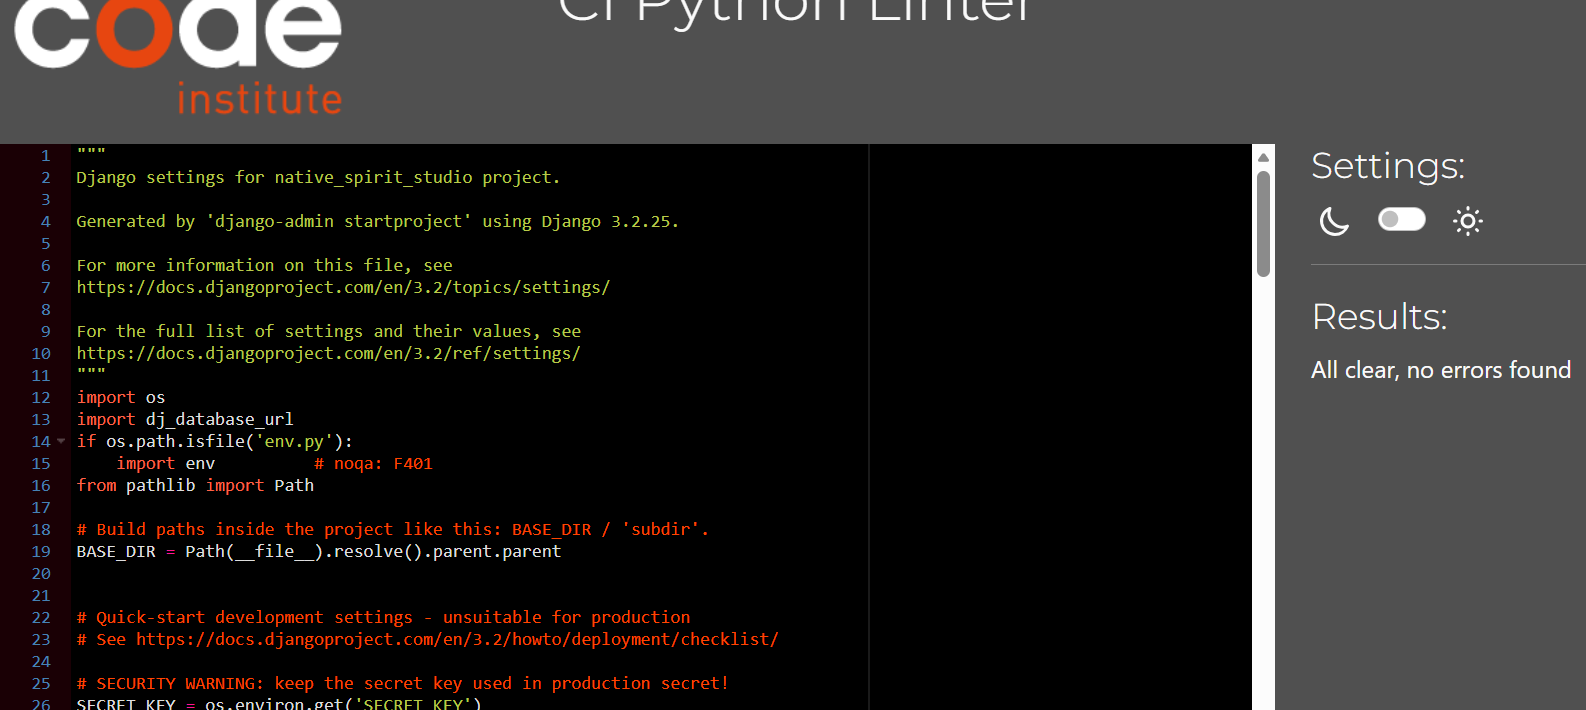
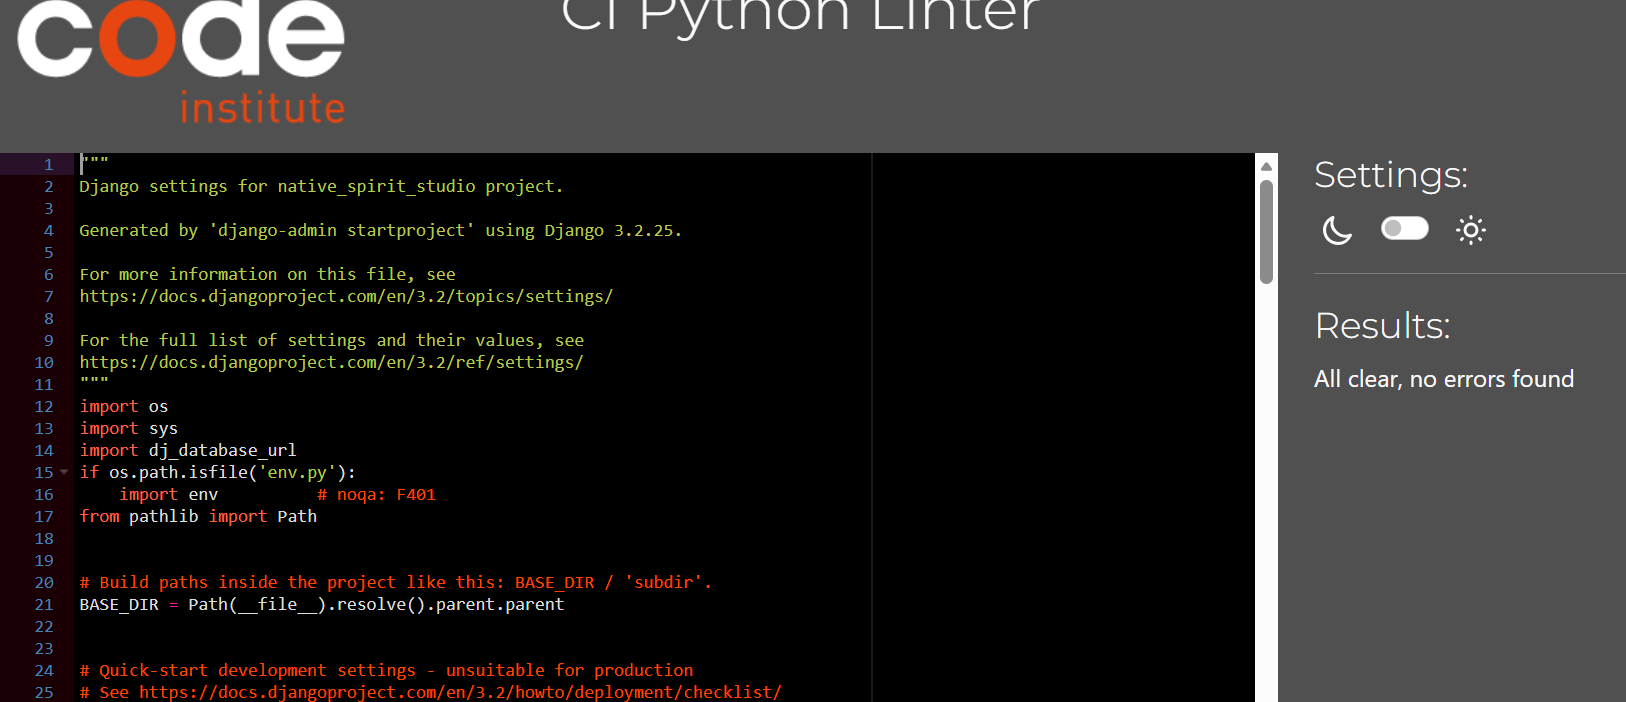
Add defensive programming screenshots

diff --git a/journal/templates/journal/add_reflection.html b/journal/templates/journal/add_reflection.html
@@ -53,14 +53,15 @@
 
                 {{ form|crispy }}
             </fieldset>
-        </form>
-                <button type="submit" class="btn btn-info rounded-0 mt-3">
+             <button type="submit" class="btn btn-info rounded-0 mt-3">
                     {% if reflection %}
                         Update Reflection
                     {% else %}
                         Save Reflection
                     {% endif %}
                 </button>
+        </form>
+               
             </div>
         </div>
     </div>

diff --git a/TESTING.md b/TESTING.md
@@ -148,7 +148,7 @@ I have used the recommended [PEP8 CI Python Linter](https://pep8ci.herokuapp.com
 | journal | [admin.py](https://github.com/Rubina1978/native-spirit-studio/blob/main/journal/admin.py) | [PEP8 CI Link](https://pep8ci.herokuapp.com/https://raw.githubusercontent.com/Rubina1978/native-spirit-studio/refs/heads/main/journal/admin.py) | ![screenshot](documentation/linter/journal-admin.png) |  |
 | journal | [forms.py](https://github.com/Rubina1978/native-spirit-studio/blob/main/journal/forms.py) | [PEP8 CI Link](https://pep8ci.herokuapp.com/https://raw.githubusercontent.com/Rubina1978/native-spirit-studio/refs/heads/main/journal/forms.py) | ![screenshot](documentation/linter/journal-forms.png) |  |
 | journal | [models.py](https://github.com/Rubina1978/native-spirit-studio/blob/main/journal/models.py) | [PEP8 CI Link](https://pep8ci.herokuapp.com/https://raw.githubusercontent.com/Rubina1978/native-spirit-studio/refs/heads/main/journal/models.py) | ![screenshot](documentation/linter/journal-models.png) |  |
-| journal | [tests.py](https://github.com/Rubina1978/native-spirit-studio/blob/main/journal/tests.py) | [PEP8 CI Link](https://pep8ci.herokuapp.com/https://raw.githubusercontent.com/Rubina1978/native-spirit-studio/main/journal/tests.py) | ![screenshot](documentation/validation/py-journal-tests.png) |  |
+| journal | [tests.py](https://github.com/Rubina1978/native-spirit-studio/blob/main/journal/tests.py) | [PEP8 CI Link](https://raw.githubusercontent.com/Rubina1978/native-spirit-studio/refs/heads/main/journal/tests.py) | ![screenshot](documentation/linter/journal-test.png) |  |
 | journal | [urls.py](https://github.com/Rubina1978/native-spirit-studio/blob/main/journal/urls.py) | [PEP8 CI Link](https://pep8ci.herokuapp.com/https://raw.githubusercontent.com/Rubina1978/native-spirit-studio/main/journal/urls.py) | ![screenshot](documentation/linter/journal-urls.png) |  |
 | journal | [views.py](https://github.com/Rubina1978/native-spirit-studio/blob/main/journal/views.py) | [PEP8 CI Link](https://pep8ci.herokuapp.com/https://raw.githubusercontent.com/Rubina1978/native-spirit-studio/refs/heads/main/journal/views.py) | ![screenshot](documentation/linter/journal-views.png) |  |
 | native_spirit_studio  | [manage.py](https://github.com/Rubina1978/native-spirit-studio/blob/main/manage.py) | [PEP8 CI Link](https://pep8ci.herokuapp.com/https://raw.githubusercontent.com/Rubina1978/native-spirit-studio/refs/heads/main/manage.py) | ![screenshot](documentation/linter/n-s-s-manage.py.png) |  |
@@ -254,7 +254,7 @@ I've tested my deployed project using the Lighthouse Audit tool to check for any
 | Add Product | ![screenshot](documentation/lighthouse/add-product-mobile.png) | ![screenshot](documentation/lighthouse/add-product-desktop.png) |
 | Edit Product | ![screenshot](documentation/lighthouse/edit-product-mobile.png) | ![screenshot](documentation/lighthouse/edit-product-desktop.png) |
 | Journal | ![screenshot](documentation/lighthouse/journal-mobile.png) | ![screenshot](documentation/lighthouse/journal-desktop.png) |
-| Add reflection | ![screenshot](documentation/lighthouse/add-reflection-mobile.png) | ![screenshot](documentation\lighthouse\add-reflection-desktop.png) |
+| Add reflection | ![screenshot](documentation/lighthouse/add-reflection-mobile.png) | ![screenshot](documentation/lighthouse/add-reflection-desktop.png) |
 | 404 | ![screenshot](documentation/lighthouse/page-404-mobile.png) | ![screenshot](documentation/lighthouse/pAGE-404-desktop.png) |
 
 ## Defensive Programming
@@ -300,24 +300,24 @@ Defensive programming was manually tested with the below user acceptance testing
 
 | Page | Expectation | Test | Result | Screenshot |
 | --- | --- | --- | --- | --- |
-| Products | Feature is expected to allow users to browse products without registration. | Opened product pages as a guest user. | Products were fully accessible without requiring registration. | ![screenshot](documentation/defensive/products.png) |
-| | Feature is expected to sort products by price and name. | Tested sorting options for price (low-to-high/high-to-low) and name (alphabetical). | Sorting worked correctly for all options. | ![screenshot](documentation/defensive/sorting.png) |
-| | Feature is expected to filter products by category. | Applied category filters while browsing products. | Filters worked as expected, displaying only relevant products. | ![screenshot](documentation/defensive/filtering.png) |
-| | Feature is expected to show detailed product information. | Clicked on individual products to view details. | Product details (description, price, image) were displayed correctly. | ![screenshot](documentation/defensive/product-details.png) |
-| Shopping Cart | Feature is expected to allow customers to add items to the cart with quantity controls. | Added products to the cart and adjusted quantities. | Items were added successfully, and quantities updated as expected. | ![screenshot](documentation/defensive/add-to-cart.png) |
-| | Feature is expected to allow customers to view and manage their cart. | Opened the cart page and edited cart contents. | Cart contents were displayed, updated, and removed correctly. | ![screenshot](documentation/defensive/manage-cart.png) |
-| Checkout | Feature is expected to display cart items, grand total, and input fields for checkout. | Proceeded to checkout with items in the cart. | Checkout page displayed cart items, total, and input fields as expected. | ![screenshot](documentation/defensive/checkout.png) |
-| | Feature is expected to allow secure payment via Stripe. | Entered valid card details using Stripe at checkout. | Payment was processed securely, and an order confirmation page was displayed. | ![screenshot](documentation/defensive/stripe-payment.png) |
-| | Feature is expected to send a confirmation email after purchase. | Completed a purchase and checked email inbox. | Confirmation email was received with order details. | ![screenshot](documentation/defensive/confirmation-email.png) |
-| | Feature is expected to display an order confirmation page with an order number. | Completed a purchase. | Order confirmation page displayed successfully with an order number. | ![screenshot](documentation/defensive/order-confirmation.png) |
-| Account Management | Feature is expected to allow returning customers to log in and view past orders. | Logged in as a returning customer and accessed order history. | Past orders were displayed correctly in the account section. | ![screenshot](documentation/defensive/order-history.png) |
-| | Feature is expected to remember the shipping address for returning customers. | Completed multiple checkouts as a returning customer. | Shipping address was pre-filled on subsequent purchases. | ![screenshot](documentation/defensive/saved-address.png) |
-| Admin Features | Feature is expected to allow the site owner to create new products. | Created new products with valid data (name, price, description, image, category). | Products were added successfully and displayed on the site. | ![screenshot](documentation/defensive/create-product.png) |
-| | Feature is expected to allow the site owner to update product details. | Edited product details as an admin user. | Product updates were saved and displayed correctly. | ![screenshot](documentation/defensive/update-product.png) |
-| | Feature is expected to allow the site owner to delete products. | Deleted a product from the inventory. | Product was removed successfully from the site, after being prompted to confirm first. | ![screenshot](documentation/defensive/delete-product.png) |
-| Orders | Feature is expected to allow the site owner to view all orders placed. | Accessed the orders dashboard as an admin user. | All orders were displayed correctly. | ![screenshot](documentation/defensive/view-orders.png) |
-| Newsletter | Feature is expected to allow users to sign up for the newsletter. | Submitted valid email addresses for newsletter registration. | Email addresses were successfully added to the newsletter list. | ![screenshot](documentation/defensive/newsletter.png) |
-| 404 Error Page | Feature is expected to display a 404 error page for non-existent pages. | Navigated to an invalid URL (e.g., `/test`). | A custom 404 error page was displayed as expected. | ![screenshot](documentation/defensive/404.png) |
+| Products | Feature is expected to allow users to browse products without registration. | Opened product pages as a guest user. | Products were fully accessible without requiring registration. | ![screenshot](documentation/defensive-programing/products-def-prog.png) |
+| | Feature is expected to sort products by price and name. | Tested sorting options for price (low-to-high/high-to-low) and name (alphabetical). | Sorting worked correctly for all options. | ![screenshot](documentation/defensive-programing/sorting-products-def-prog.png) |
+| | Feature is expected to filter products by category. | Applied category filters while browsing products. | Filters worked as expected, displaying only relevant products. | ![screenshot](documentation/defensive-programing/category-filter-def-prog.png) |
+| | Feature is expected to show detailed product information. | Clicked on individual products to view details. | Product details (description, price, image) were displayed correctly. | ![screenshot](documentation/defensive-programing/product-detail-def-prog.png) |
+| Shopping bag | Feature is expected to allow customers to add items to the bag with quantity controls. | Added products to the cart and adjusted quantities. | Items were added successfully, and quantities updated as expected. | ![screenshot](documentation/defensive-programing/adding-to-shopping-bag-def-prog.png) |
+| | Feature is expected to allow customers to view and manage their bag. | Opened the shopping bag page and edited cart contents. | Cart contents were displayed, updated, and removed correctly. | ![screenshot](documentation/defensive-programing/view-and-update-shoppingbag-def-prog.png) |
+| Checkout | Feature is expected to display bag items, grand total, and input fields for checkout. | Proceeded to checkout with items in the bag. | Checkout page displayed bag items, total, and input fields as expected. | ![screenshot](documentation/defensive-programing/checkout-def-prog.png) |
+| | Feature is expected to allow secure payment via Stripe. | Entered valid card details using Stripe at checkout. | Payment was processed securely, and an order confirmation page was displayed. | ![screenshot](documentation/defensive-programing/secure-stripe-payment-def-prog.png) |
+| | Feature is expected to send a confirmation email after purchase. | Completed a purchase and checked email inbox. | *Partial Pass* The checkout completed successfully and the success page informed the user that a confirmation email would be sent. However, due to the SMTP compatibility issue identified in production, email delivery could not be verified. This limitation is documented in the Known Issues section | ![screenshot](documentation/defensive-programing/email-confirmation-def-prog.png) |
+| | Feature is expected to display an order confirmation page with an order number. | Completed a purchase. | Order confirmation page displayed successfully with an order number. | ![screenshot](documentation/defensive-programing/order-number-and-confirmation.png) |
+| Account Management | Feature is expected to allow returning customers to log in and view past orders. | Logged in as a returning customer and accessed order history. | Past orders were displayed correctly in the account section. | ![screenshot](documentation/defensive-programing/past-orders.png) |
+| | Feature is expected to remember the shipping address for returning customers. | Completed multiple checkouts as a returning customer. | Shipping address was pre-filled on subsequent purchases. | ![screenshot](documentation/defensive-programing/shipping-address-remembering.png) |
+| Admin Features | Feature is expected to allow the site owner to create new products. | Created new products with valid data (name, price, description, image, category). | *Partial Pass* Products without size variants were created successfully and displayed correctly on the site. Products requiring multiple size variants could be created; however, size-specific options and pricing could not be managed through the custom Product Management interface and require further development. This limitation is documented in the Known Issues section. | ![screenshot](documentation/defensive-programing/add-product-def-prog.png) |
+| | Feature is expected to allow the site owner to update product details. | Edited product details as an admin user. | Product updates were saved and displayed correctly. | ![screenshot](documentation/defensive-programing/edit-product-def-prog.png) |
+| | Feature is expected to allow the site owner to delete products. | Deleted a product from the inventory. | Product was removed successfully from the site, and delete success message shown. | ![screenshot](documentation/defensive-programing/deleting-product.png) |
+| Orders | Feature is expected to allow the site owner to view all orders placed. | Accessed the orders dashboard as an admin user. | All orders were displayed correctly. | ![screenshot](documentation/defensive-programing/all-orders-placed.png) |
+| Journal| Feature is expected to allow signed in users to add reflection and have it shown in journal, or edit/delete existing reflection . | Added reflection to journal. | Reflection card shown in journal with option to edit or delete | ![screenshot](documentation/defensive-programing/view-update-delete-reflection-in-journal.png) |
+| 404 Error Page | Feature is expected to display a 404 error page for non-existent pages. | Navigated to an invalid URL (e.g., `/test`). | A custom 404 error page was displayed as expected. | ![screenshot](documentation/defensive-programing/page-404-def-prog.png) |
 
 ## User Story Testing
 